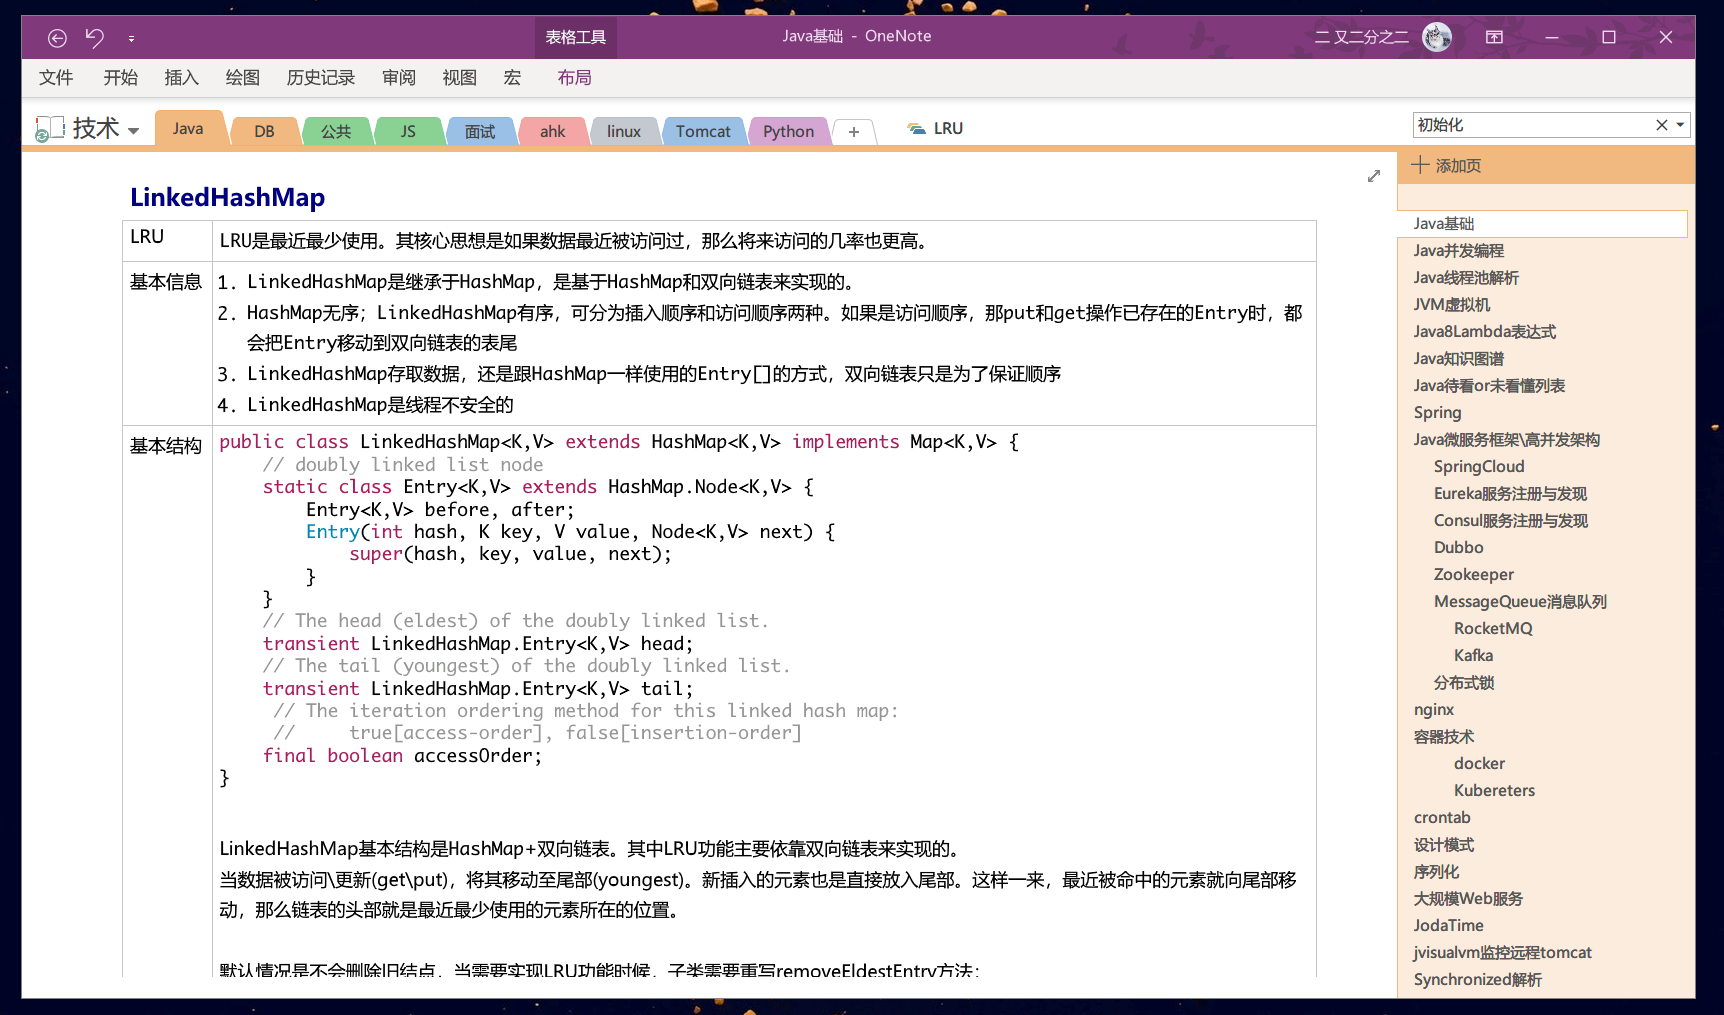
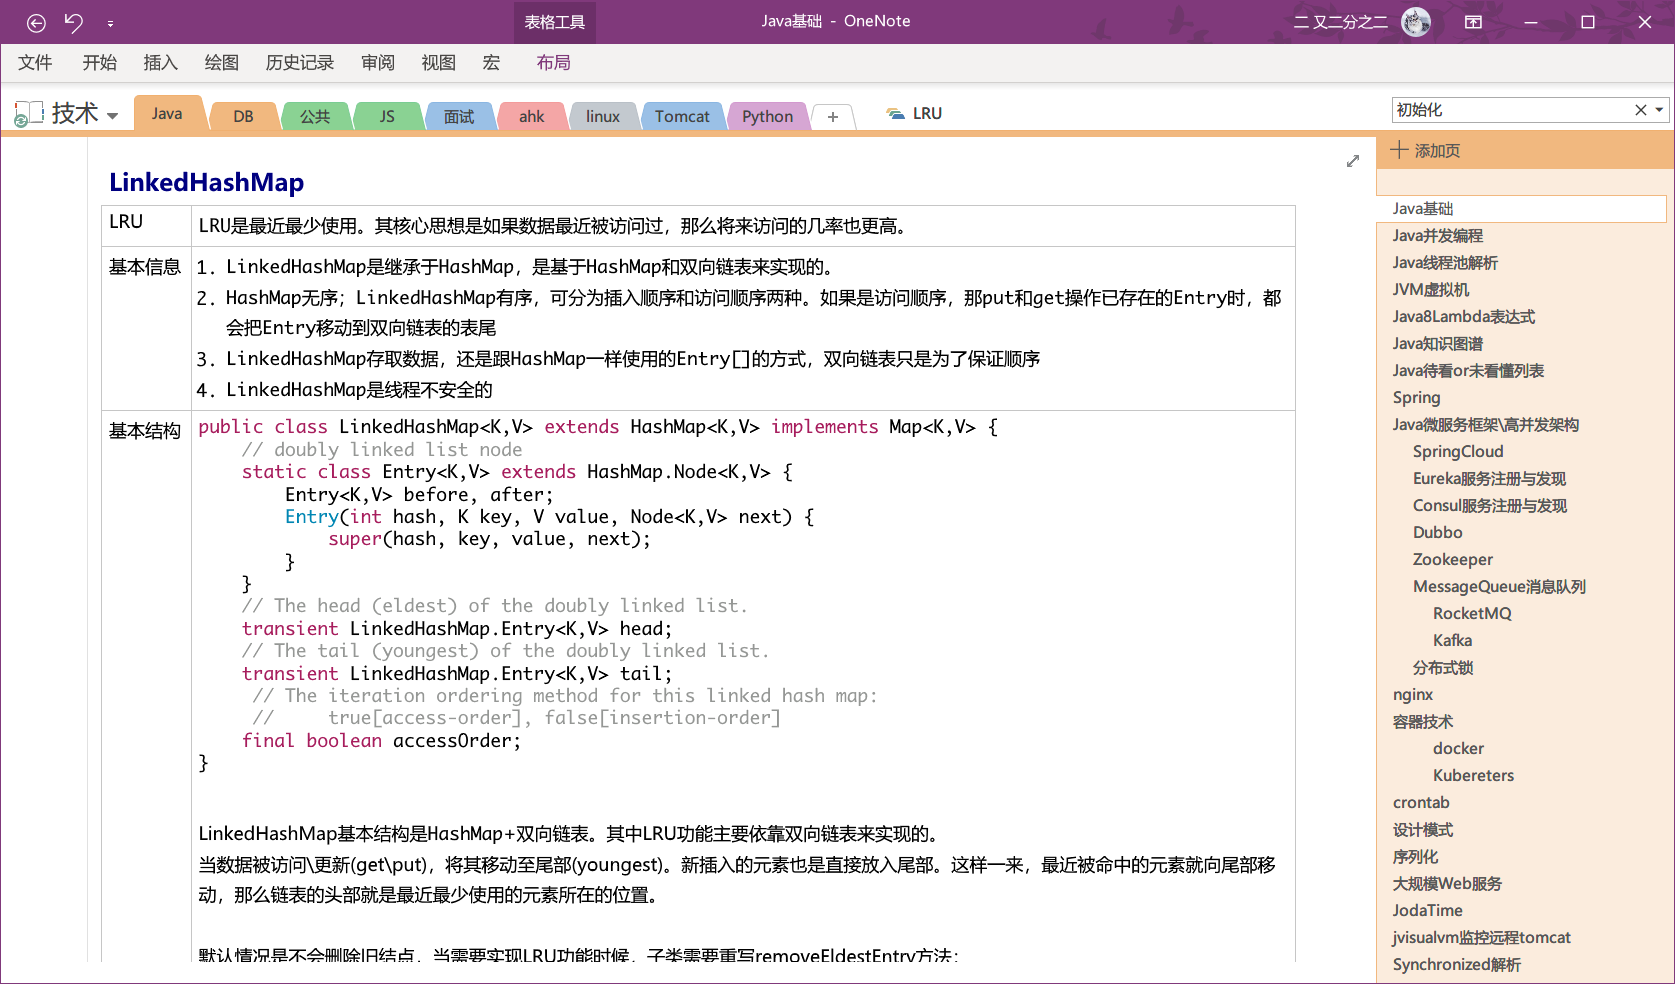
first commit

Changed region(s): [[0.0, 0.0, 1.0, 1.0], [0.1552, 0.5793, 0.5278, 0.7622], [0.1242, 0.8232, 0.7761, 0.9146]]

diff --git a/README.md b/README.md
@@ -5,7 +5,8 @@
 ## 说明
 1. 使用OneNote笔记软件进行记录查看，使用字体[Monaco+微软雅黑]
 2. 文档主要按照语言分区
-3. 分类说明
+3. 当文档中某个知识点具备规模后，将其独立拆分
+4. 分类说明
 
 |文档|说明|
 |-|-|
@@ -22,4 +23,4 @@
 
 ## 预览
 <div align=center><img width="70%" height="70%" src="https://github.com/bjc5233/programming-learn/raw/master/resources/demo1.png"/></div>
-<div align=center><img width="70%" height="70%" src="https://github.com/bjc5233/programming-learn/raw/master/resources/demo1.png"/></div>
+<div align=center><img width="70%" height="70%" src="https://github.com/bjc5233/programming-learn/raw/master/resources/demo2.png"/></div>
